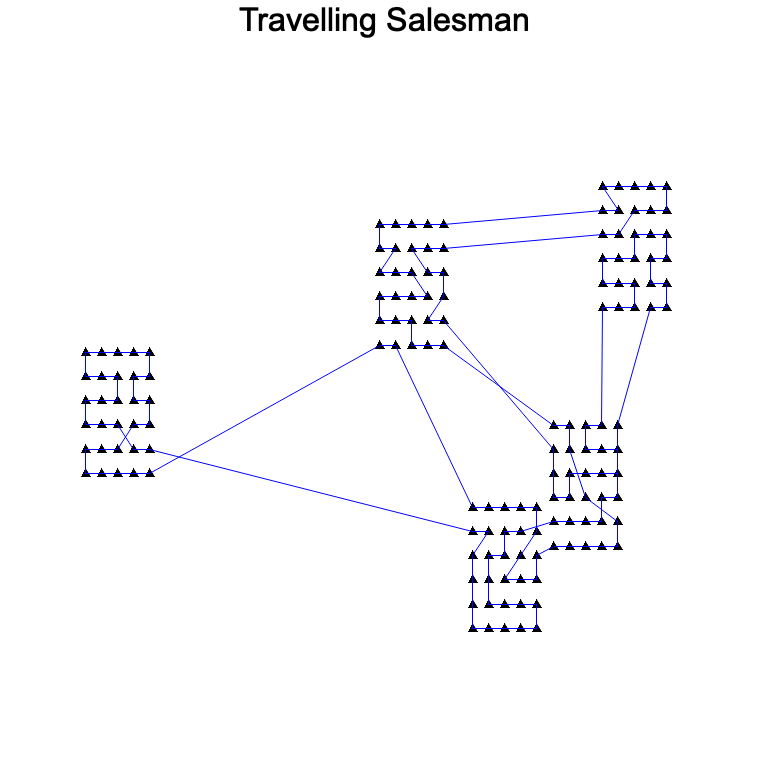
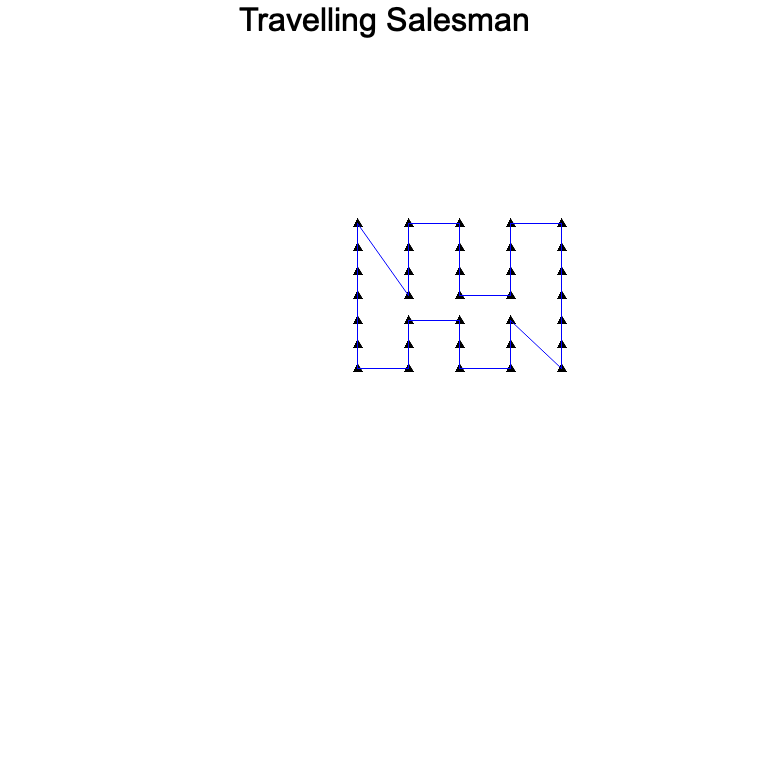
update

diff --git a/src/plot.rs b/src/plot.rs
@@ -2,7 +2,7 @@ use plotters::prelude::*;
 
 pub fn plot(_points: &[(f32, f32)]) {
     // generate loop from points.
-    let points = _points.iter().map(|&x| x).collect::<Vec<_>>();
+    let points = _points.to_vec();
     let salesman_loop;
     {
         let mut temp = points.clone();

diff --git a/src/main.rs b/src/main.rs
@@ -5,7 +5,7 @@ use salesman::anneal::*;
 
 fn main() {
     // Solve travelling salesman.
-    let rand_blocks = rand_n_blocks(5, 6, 0.05, 0.08, 5);
+    let rand_blocks = rand_n_blocks(5, 7, 0.16, 0.08, 1);
     let rand_points;
     {
         let mut temp_points = Vec::new();
